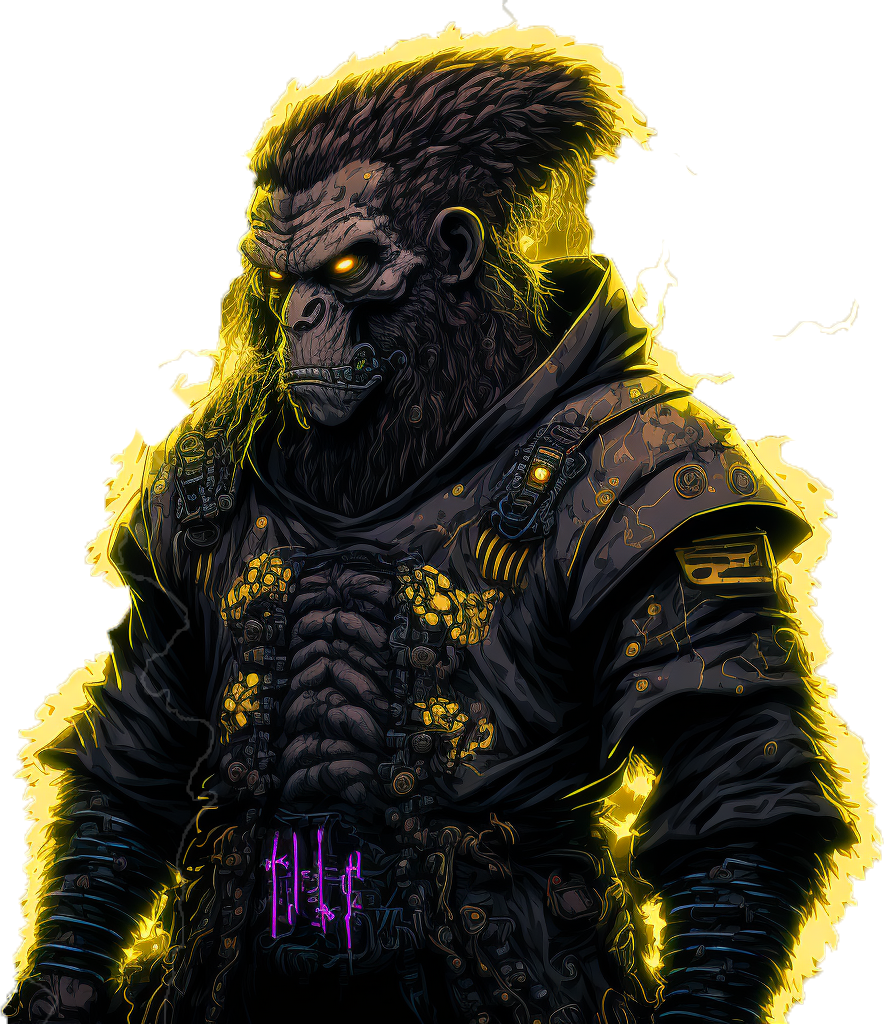
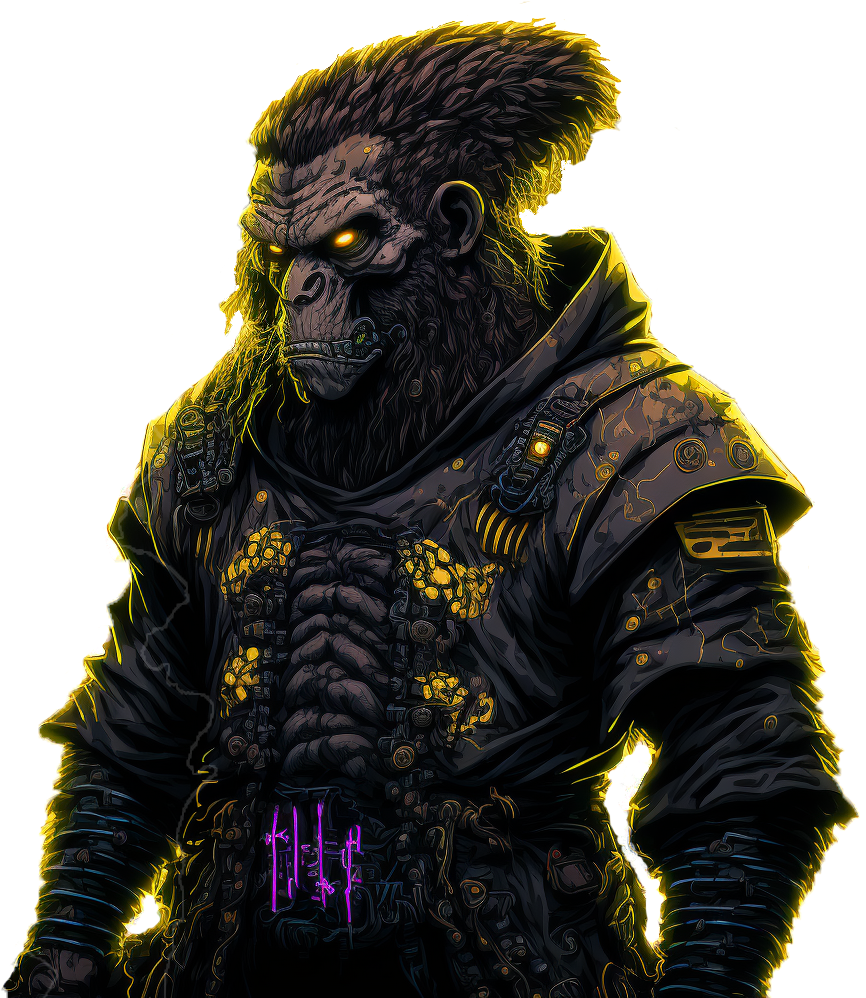
add proper image

diff --git a/src/pages/Index.vue b/src/pages/Index.vue
@@ -1,5 +1,28 @@
 <template>
-  <TemplateDefault class="min-h-screen overflow-x-hidden">
+  <TemplateDefault class="overflow-x-hidden">
+    <div
+      class="top-0 z-50 flex min-h-screen w-full items-end justify-center overflow-hidden bg-[#201f1f]"
+    >
+      <div class="absolute inset-0 z-40 bg-black opacity-80" />
+
+      <div class="w-full">
+        <div class="mx-auto max-w-3xl px-10 3xl:max-w-4xl">
+          <img src="/11.png" alt="" class="relative z-40 w-full" />
+        </div>
+        <div class="absolute top-0 bottom-0 w-full">
+          <img
+            src="/bg.gif"
+            alt=""
+            class="relative z-20 h-full w-full object-cover"
+          />
+        </div>
+        <a
+          href="#content"
+          class="absolute left-1/2 bottom-10 flex w-16 -translate-x-1/2 animate-bounce items-center justify-center"
+          ><img src="/scroll-down.svg" alt=""
+        /></a>
+      </div>
+    </div>
     <div class="NoiseBackground">
       <div class="NoiseBackground__Noise"></div>
     </div>
@@ -16,7 +39,7 @@
             <h1
               class="text-4xl font-bold uppercase text-n-pink sm:text-5xl md:text-6xl 2xl:text-7xl 2xl:leading-none"
             >
-              道場は12月にオープンします
+              道場は12月に<br />オープンします
             </h1>
 
             <div>

diff --git a/src/Organism/PageLoader.vue b/src/Organism/PageLoader.vue
@@ -2,12 +2,14 @@
   <transition name="fade">
     <div
       v-if="elementVisible"
-      class="fixed top-0 z-50 flex min-h-screen w-full items-end justify-center overflow-hidden bg-[#201f1f]"
+      class="fixed top-0 flex min-h-screen w-full items-end justify-center overflow-hidden bg-[#201f1f]"
     >
-      <div class="absolute inset-0 z-40 bg-black opacity-50" />
+      <div class="absolute inset-0 z-30 bg-black opacity-80" />
 
       <div class="w-full">
-        <img src="/11.png" alt="" class="relative z-50 w-full" />
+        <div class="mx-auto max-w-4xl">
+          <img src="/11.png" alt="" class="relative z-50 w-full" />
+        </div>
         <div class="absolute top-0 bottom-0 w-full">
           <img
             src="/bg.gif"
@@ -29,7 +31,7 @@
 export default {
   data() {
     return {
-      elementVisible: true,
+      elementVisible: false,
     };
   },
 

diff --git a/src/Organism/Header.vue b/src/Organism/Header.vue
@@ -1,6 +1,6 @@
 <template>
   <header
-    class="pin-x-center bg-blur-2xl custom-transition fixed top-0 z-30 w-full bg-opacity-30 p-6 scrolled:bg-black"
+    class="pin-x-center bg-blur-2xl custom-transition fixed top-0 z-50 w-full bg-opacity-30 p-6 scrolled:bg-black"
   >
     <div class="x mx-auto flex w-full max-w-8xl justify-between">
       <g-link
